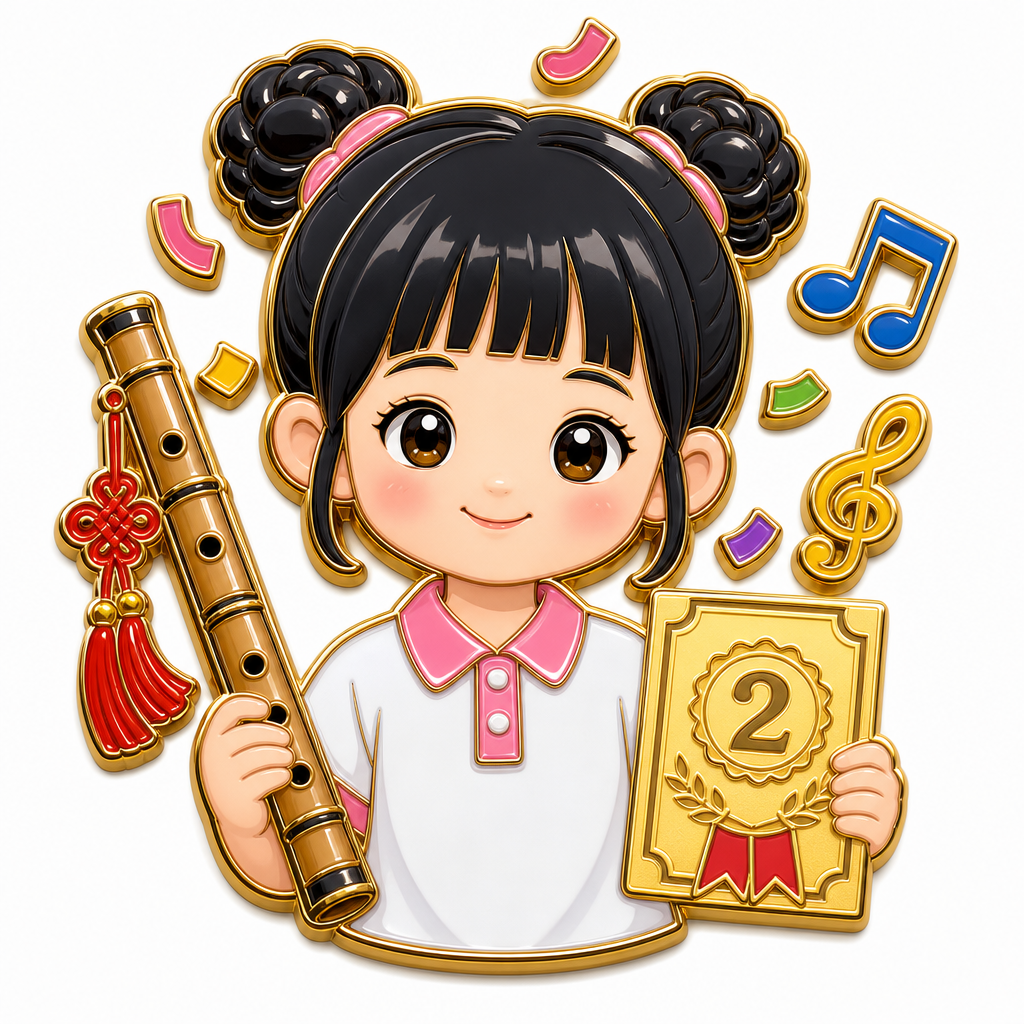
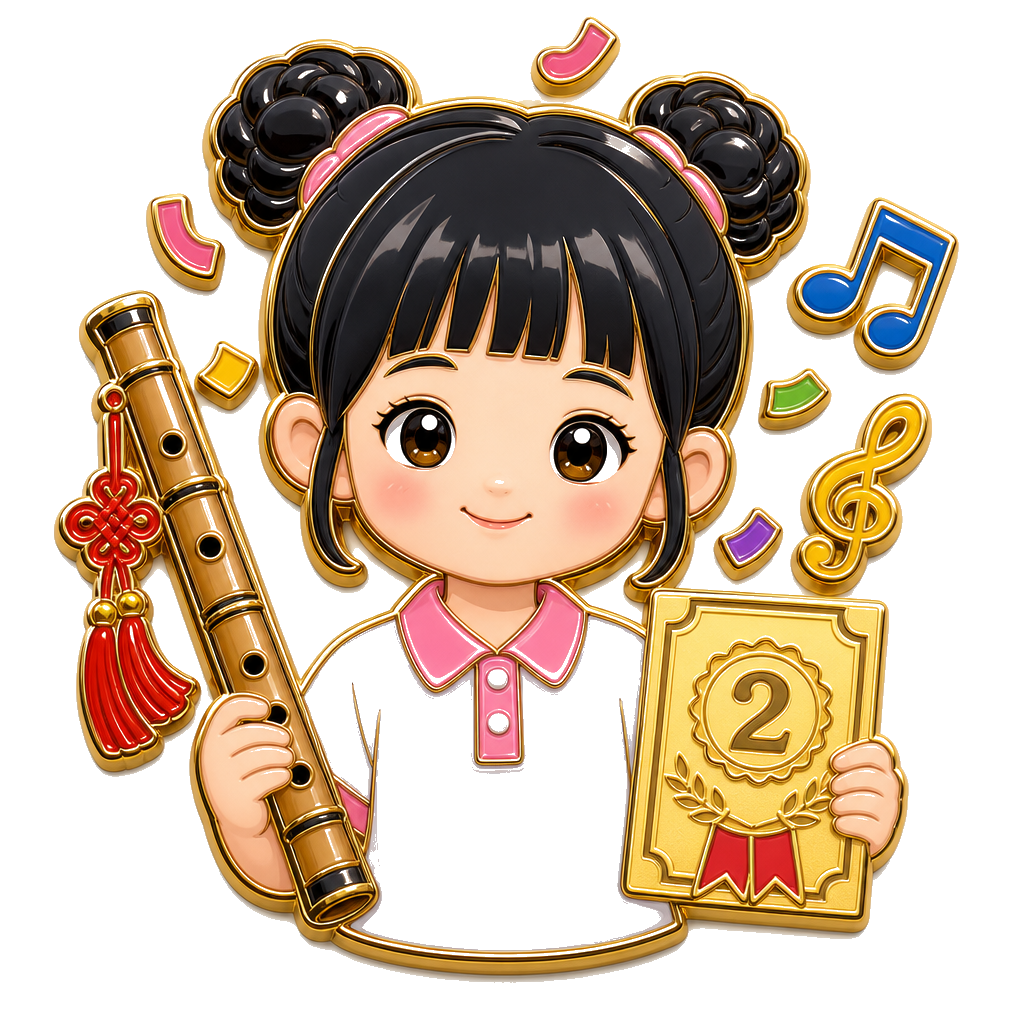
feat: 成就卡片v3设计 - 布局优化/去掉白底/灰化方案/动效保留

diff --git a/src/kid_app/static/badge-design-v3.html b/src/kid_app/static/badge-design-v3.html
@@ -1,0 +1,346 @@
+<!DOCTYPE html>
+<html lang="zh">
+<head>
+<meta charset="UTF-8">
+<meta name="viewport" content="width=device-width, initial-scale=1.0, user-scalable=no">
+<title>成就卡片 v3 — 设计改进 Demo（保留动效）</title>
+<script src="https://cdnjs.cloudflare.com/ajax/libs/gsap/3.12.5/gsap.min.js"></script>
+<style>
+* { box-sizing: border-box; margin: 0; padding: 0; }
+body { font-family: -apple-system, BlinkMacSystemFont, sans-serif; background: #f0ede8; padding: 24px 12px 80px; }
+
+/* ── 页面结构 ── */
+.page-header { padding: 20px 4px 8px; font-size: 22px; font-weight: bold; color: #333; }
+.page-sub { font-size: 13px; color: #aaa; margin-bottom: 20px; padding: 0 4px; }
+.ac-card { background: #fff; border-radius: 20px; padding: 0; margin: 0 0 12px; }
+.section-label { font-size: 11px; font-weight: bold; color: #888; text-transform: uppercase; letter-spacing: 1.5px; margin: 28px 0 8px 4px; }
+
+/* ── 卡片主结构 ── */
+.card-v3 {
+  display: flex;
+  align-items: center;
+  padding: 28px 24px;
+  border-radius: 22px;
+  background: #fffdf8;
+  border: 2px solid #f5e8c0;
+  box-shadow: 0 4px 16px rgba(200,160,60,0.12);
+  cursor: pointer;
+  position: relative;
+  overflow: hidden;
+  min-height: 180px;
+  transition: box-shadow 0.2s, border-color 0.2s;
+}
+.card-v3:hover {
+  box-shadow: 0 10px 32px rgba(200,160,60,0.26);
+  border-color: #f0c040;
+}
+
+/* 已解锁：左上角光晕 */
+.card-v3.unlocked::before {
+  content: '';
+  position: absolute;
+  top: -20px; left: -20px;
+  width: 80px; height: 80px;
+  background: radial-gradient(circle, rgba(255,215,0,0.25) 0%, transparent 70%);
+  pointer-events: none;
+}
+
+/* 未解锁：整体灰暗 + 锁图标 */
+.card-v3.locked {
+  border-color: #e8e4de;
+  background: #f8f6f2;
+  filter: saturate(0.35) brightness(0.95);
+}
+.card-v3.locked .badge-img { filter: grayscale(1) brightness(0.7); }
+.card-v3.locked .label-text { color: #bbb; }
+.card-v3.locked .value-num { color: #ccc; }
+.card-v3.locked .desc { color: #ccc; }
+
+.card-v3 .lock-icon {
+  position: absolute;
+  bottom: 14px; right: 16px;
+  width: 24px; height: 24px;
+  opacity: 0.5;
+}
+
+/* badge 容器 */
+.badge-wrap {
+  flex-shrink: 0;
+  width: 120px; height: 120px;
+  display: flex; align-items: center; justify-content: center;
+}
+.badge-img {
+  width: 120px; height: 120px;
+  object-fit: contain;
+  filter: drop-shadow(0 4px 10px rgba(180,140,20,0.4));
+  transition: filter 0.2s;
+}
+.card-v3:hover .badge-img {
+  filter: drop-shadow(0 6px 16px rgba(180,140,20,0.55));
+}
+
+/* 未解锁：整体灰化 */
+.card-v3.locked .badge-img {
+  filter: saturate(0) brightness(0.8) drop-shadow(0 2px 6px rgba(0,0,0,0.15));
+  -webkit-filter: saturate(0) brightness(0.8) drop-shadow(0 2px 6px rgba(0,0,0,0.15));
+}
+/* 未解锁 hover：恢复原色（稍暗） */
+.card-v3.locked:hover .badge-img {
+  filter: saturate(1) brightness(0.75) drop-shadow(0 2px 8px rgba(0,0,0,0.2));
+  -webkit-filter: saturate(1) brightness(0.75) drop-shadow(0 2px 8px rgba(0,0,0,0.2));
+}
+
+/* info 区 */
+.info {
+  flex: 1;
+  min-width: 0;
+  min-height: 120px;
+  max-width: 280px; /* 限制文字区最大宽度，避免在宽屏上拉得太开 */
+  display: flex;
+  flex-direction: column;
+  justify-content: center;
+  padding-left: 40px;
+}
+
+/* 标签行 */
+.label-row { display: flex; align-items: center; gap: 8px; margin-bottom: 10px; }
+.pill {
+  display: inline-flex; align-items: center; gap: 4px;
+  color: #fff; font-size: 10px; font-weight: 700;
+  padding: 2px 8px; border-radius: 20px; letter-spacing: 0.5px; flex-shrink: 0;
+}
+.pill.type-突破 { background: linear-gradient(135deg, #FF6B35, #FF9B5A); }
+.pill.type-段位 { background: linear-gradient(135deg, #9b59b6, #c39bd3); }
+.pill.type-巅峰 { background: linear-gradient(135deg, #3498db, #85c1e9); }
+.pill.type-执着 { background: linear-gradient(135deg, #e67e22, #f0b27a); }
+.pill.type-神秘 { background: linear-gradient(135deg, #1abc9c, #76d7c4); }
+
+.label-text { font-size: 21px; font-weight: 800; color: #c8860a; letter-spacing: 0.5px; }
+
+/* 数字行 */
+.value-row { display: flex; align-items: baseline; gap: 4px; margin-bottom: 8px; flex-wrap: wrap; }
+.value-num { font-size: 34px; font-weight: 900; color: #FF6B35; line-height: 1; letter-spacing: -0.5px; }
+.value-unit { font-size: 13px; color: #bbb; font-weight: 500; margin-right: 2px; }
+
+/* 列表型 */
+.value-list { display: flex; flex-wrap: wrap; gap: 6px; margin-bottom: 8px; }
+.item-pill {
+  display: inline-flex; align-items: center; gap: 4px;
+  background: #fff8e8; border: 1.5px solid #f0c040;
+  border-radius: 20px; padding: 4px 10px;
+  font-size: 14px; color: #5a4020; font-weight: 600;
+}
+.item-pill .mins { font-size: 11px; color: #a08060; font-weight: 400; }
+
+/* 暂无数据 */
+.value-empty { font-size: 15px; color: #ccc; font-weight: 600; margin-bottom: 8px; }
+
+/* 描述 */
+.desc { font-size: 13px; color: #a08060; font-style: italic; line-height: 1.4; }
+
+/* ripple */
+.card-v3 .ripple {
+  position: absolute; border-radius: 50%;
+  background: rgba(255,200,50,0.3);
+  transform: scale(0);
+  animation: ripple-out 0.5s ease-out forwards;
+  pointer-events: none;
+}
+@keyframes ripple-out { to { transform: scale(4); opacity: 0; } }
+</style>
+</head>
+<body>
+
+<div class="page-header">🏆 我的成就</div>
+<p class="page-sub">v3 — 金色光晕条 / 灰暗未解锁 / 120x120大徽章 / 保留生产动效</p>
+
+<!-- ══ 已解锁：累计型（display）══ -->
+<div class="section-label">已解锁 · 累计型（display）</div>
+<div class="ac-card">
+  <div class="card-v3 unlocked" data-id="total_60">
+    <div class="badge-wrap">
+      <img class="badge-img" src="/static/badges/total_60.png" alt="">
+    </div>
+    <div class="info">
+      <div class="label-row">
+        <span class="pill type-突破">🏅 突破</span>
+        <span class="label-text">变得更强</span>
+      </div>
+      <div class="value-row">
+        <span class="value-num">92</span><span class="value-unit">小时</span>
+        <span class="value-num">46</span><span class="value-unit">分钟</span>
+      </div>
+      <div class="desc">一屁股坐下去，笛子都认识你了！</div>
+    </div>
+  </div>
+</div>
+
+<!-- ══ 已解锁：周冠军型（display）══ -->
+<div class="section-label">已解锁 · 巅峰周（display）</div>
+<div class="ac-card">
+  <div class="card-v3 unlocked" data-id="week_champ">
+    <div class="badge-wrap">
+      <img class="badge-img" src="/static/badges/week_champ.png" alt="">
+    </div>
+    <div class="info">
+      <div class="label-row">
+        <span class="pill type-巅峰">🏅 巅峰</span>
+        <span class="label-text">巅峰周</span>
+      </div>
+      <div class="value-row">
+        <span class="value-num">251</span><span class="value-unit">分钟</span>
+      </div>
+      <div class="desc">那一周，你就是时间管理大师！</div>
+    </div>
+  </div>
+</div>
+
+<!-- ══ 已解锁：top1 列表型（display）══ -->
+<div class="section-label">已解锁 · 列表型（display）</div>
+<div class="ac-card">
+  <div class="card-v3 unlocked" data-id="top1">
+    <div class="badge-wrap">
+      <img class="badge-img" src="/static/badges/top1.png" alt="">
+    </div>
+    <div class="info">
+      <div class="label-row">
+        <span class="pill type-突破">🏅 突破</span>
+        <span class="label-text">最熟悉的你</span>
+      </div>
+      <div class="value-list">
+        <span class="item-pill">基本功<span class="mins">(1245分钟)</span></span>
+        <span class="item-pill">歌曲 - 小节<span class="mins">(1199分钟)</span></span>
+        <span class="item-pill">歌曲 - 吹<span class="mins">(1052分钟)</span></span>
+      </div>
+      <div class="desc">你跟这些科目最熟，它们也最想你！</div>
+    </div>
+  </div>
+</div>
+
+<!-- ══ 已解锁：grade_1 段位型（milestone）══ -->
+<div class="section-label">已解锁 · 段位型（milestone）</div>
+<div class="ac-card">
+  <div class="card-v3 unlocked" data-id="grade_1">
+    <div class="badge-wrap">
+      <img class="badge-img" src="/static/badges/grade_1-u.png" alt="">
+    </div>
+    <div class="info">
+      <div class="label-row">
+        <span class="pill type-段位">🏅 段位</span>
+        <span class="label-text">一级</span>
+      </div>
+      <div class="value-row">
+        <span class="value-num">2026</span><span class="value-unit">年</span>
+        <span class="value-num">07</span><span class="value-unit">月</span>
+        <span class="value-num">01</span><span class="value-unit">日</span>
+      </div>
+      <div class="desc">恭喜考取一级！竹笛之路，正式开始！</div>
+    </div>
+  </div>
+</div>
+
+<!-- ══ 未解锁：段位型 grade_5（milestone）══ -->
+<div class="section-label">未解锁 · 段位型（milestone）</div>
+<div class="ac-card">
+  <div class="card-v3 locked" data-id="grade_5">
+    <div class="badge-wrap">
+      <img class="badge-img" src="/static/badges/grade_5-u.png" alt="">
+    </div>
+    <div class="info">
+      <div class="label-row">
+        <span class="pill type-段位">🏅 段位</span>
+        <span class="label-text">五级</span>
+      </div>
+      <div class="value-empty">暂未解锁</div>
+      <div class="desc">继续练习，下一个就是你！</div>
+    </div>
+  </div>
+</div>
+
+<!-- ══ 未解锁：累计型 first_log（milestone）══ -->
+<div class="section-label">未解锁 · 首次打卡型（milestone）</div>
+<div class="ac-card">
+  <div class="card-v3 locked" data-id="first_log">
+    <div class="badge-wrap">
+      <img class="badge-img" src="/static/badges/first_log.png" alt="">
+    </div>
+    <div class="info">
+      <div class="label-row">
+        <span class="pill type-突破">🏅 突破</span>
+        <span class="label-text">第一声</span>
+      </div>
+      <div class="value-empty">暂未解锁</div>
+      <div class="desc">第一次吹响你的笛子！</div>
+    </div>
+  </div>
+</div>
+
+<!-- ══ 未解锁：执着型 double（milestone）══ -->
+<div class="section-label">未解锁 · 执着型（milestone）</div>
+<div class="ac-card">
+  <div class="card-v3 locked" data-id="double">
+    <div class="badge-wrap">
+      <img class="badge-img" src="/static/badges/double.png" alt="">
+    </div>
+    <div class="info">
+      <div class="label-row">
+        <span class="pill type-执着">🏅 执着</span>
+        <span class="label-text">加练狂魔</span>
+      </div>
+      <div class="value-empty">暂未解锁</div>
+      <div class="desc">同一天两次练习，卷王诞生！</div>
+    </div>
+  </div>
+</div>
+
+<div style="height:80px"></div>
+
+<script>
+document.addEventListener('DOMContentLoaded', () => {
+  // 卡片入场动画
+  const cards = document.querySelectorAll('.ac-card');
+  gsap.fromTo(cards,
+    { opacity: 0, y: 20 },
+    { opacity: 1, y: 0, duration: 0.45, stagger: 0.1, ease: 'back.out(1.6)' }
+  );
+
+  // 勋章卡交互
+  const milestoneCards = document.querySelectorAll('.card-v3');
+
+  milestoneCards.forEach(card => {
+    const badgeWrap = card.querySelector('.badge-wrap');
+    if (!badgeWrap) return;
+
+    // hover: 卡片上移 + badge 弹跳
+    card.addEventListener('mouseenter', () => {
+      gsap.to(card, { y: -3, duration: 0.2, ease: 'power2.out' });
+      gsap.to(badgeWrap, { scale: 1.15, duration: 0.3, ease: 'back.out(2.5)' });
+    });
+
+    card.addEventListener('mouseleave', () => {
+      gsap.to(card, { y: 0, duration: 0.25, ease: 'power2.out' });
+      gsap.to(badgeWrap, { scale: 1, duration: 0.3, ease: 'elastic.out(1, 0.5)' });
+    });
+
+    // click: 涟漪 + badge 挤压弹回
+    card.addEventListener('click', (e) => {
+      const rect = card.getBoundingClientRect();
+      const x = e.clientX - rect.left;
+      const y = e.clientY - rect.top;
+
+      const ripple = document.createElement('div');
+      ripple.className = 'ripple';
+      ripple.style.cssText = `left:${x - 20}px;top:${y - 20}px;width:40px;height:40px;`;
+      card.appendChild(ripple);
+      setTimeout(() => ripple.remove(), 600);
+
+      gsap.timeline()
+        .to(badgeWrap, { scale: 0.82, duration: 0.12, ease: 'power2.in' })
+        .to(badgeWrap, { scale: 1.12, duration: 0.18, ease: 'back.out(3)' })
+        .to(badgeWrap, { scale: 1, duration: 0.25, ease: 'elastic.out(1.2, 0.4)' });
+    });
+  });
+});
+</script>
+</body>
+</html>
